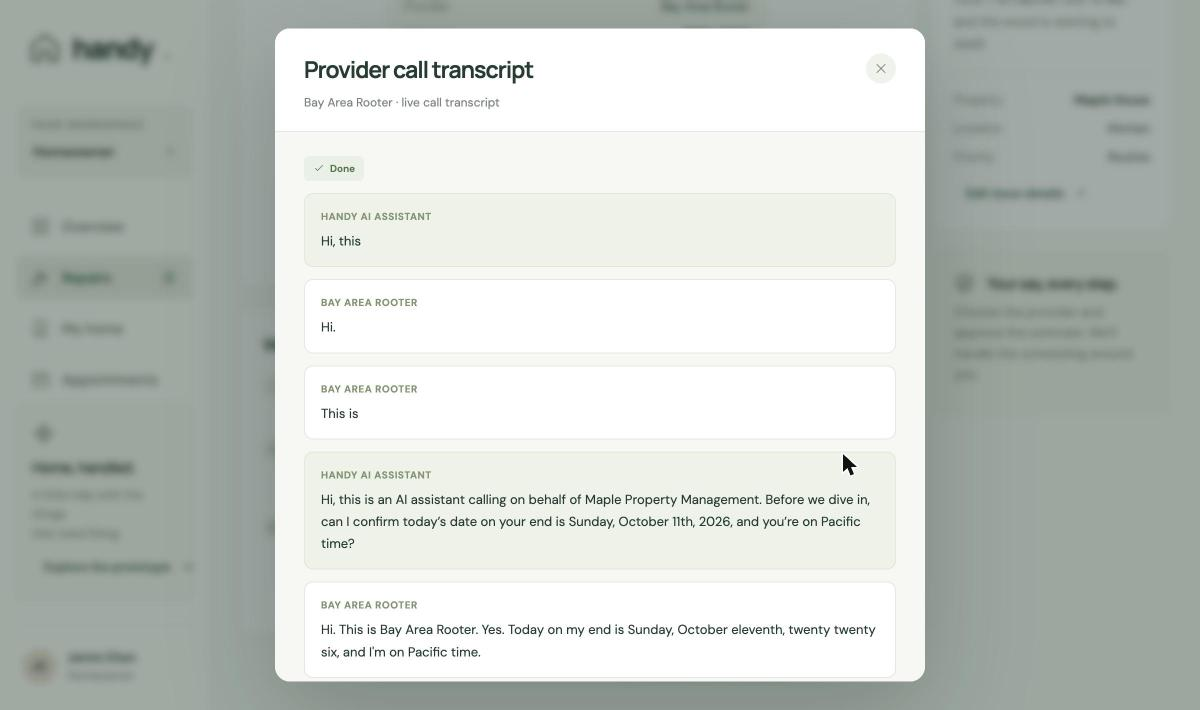
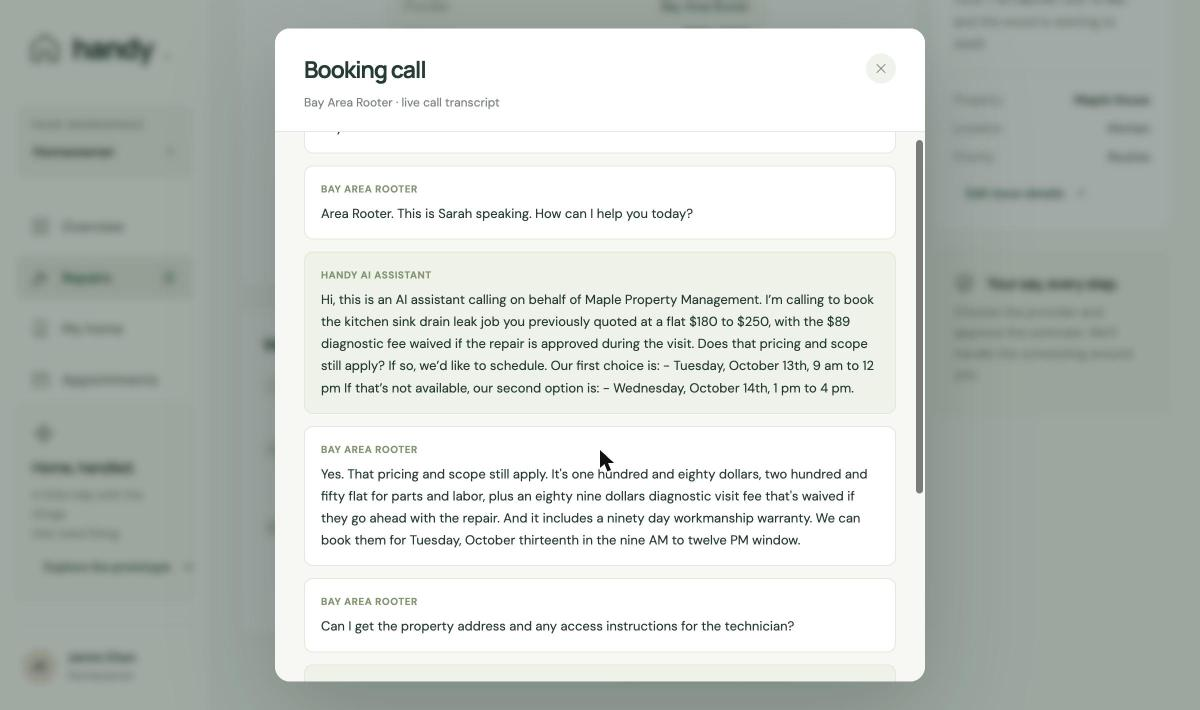
Docs: use the clean booking-call transcript screenshot

diff --git a/README.md b/README.md
@@ -16,10 +16,10 @@ One run through the web UI (`public/index.html`) with every mock flag off:
 
 Providers and their history are fictional and seeded, and labeled as such. No real business was called.
 
-| Keewano decides who gets called | Dial's real call transcript | Booked on a live call |
+| Keewano decides who gets called | Dial's real booking call | Booked on a live call |
 |---|---|---|
-| ![Quote card with Keewano's reason, the unit's repair history, and Mission Pipe Pros marked "Not called"](docs/screenshots/1-keewano-ranking.jpg) | ![Live Dial transcript: the agent opens with "Hi, this is an AI assistant calling on behalf of Maple Property Management"](docs/screenshots/2-dial-live-transcript.jpg) | ![Confirmation: "Confirmed on a live call with Bay Area Rooter", Tue Oct 13, 9 am–12 pm, $180–$250](docs/screenshots/3-booked-on-live-call.jpg) |
-| Rooter's reliability record, the unit's repeat-plumbing history (adds a replacement-quote question), and why Mission Pipe Pros was skipped | The agent discloses it is an AI in its first sentence; every turn is speaker-separated | The provider confirmed one of the offered windows; export to calendar with `.ics` |
+| ![Quote card with Keewano's reason, the unit's repair history, and Mission Pipe Pros marked "Not called"](docs/screenshots/1-keewano-ranking.jpg) | ![Live Dial booking-call transcript: the agent discloses it is an AI, restates the approved $180–$250 quote and offers two windows; the provider confirms Tuesday, October 13, 9 AM–12 PM](docs/screenshots/2-dial-live-transcript.jpg) | ![Confirmation: "Confirmed on a live call with Bay Area Rooter", Tue Oct 13, 9 am–12 pm, $180–$250](docs/screenshots/3-booked-on-live-call.jpg) |
+| Rooter's reliability record, the unit's repeat-plumbing history (adds a replacement-quote question), and why Mission Pipe Pros was skipped | The agent discloses it is an AI, restates the exact approved quote, and books only a window you offered | The provider confirmed one of the offered windows; export to calendar with `.ics` |
 
 ## The problem
 
